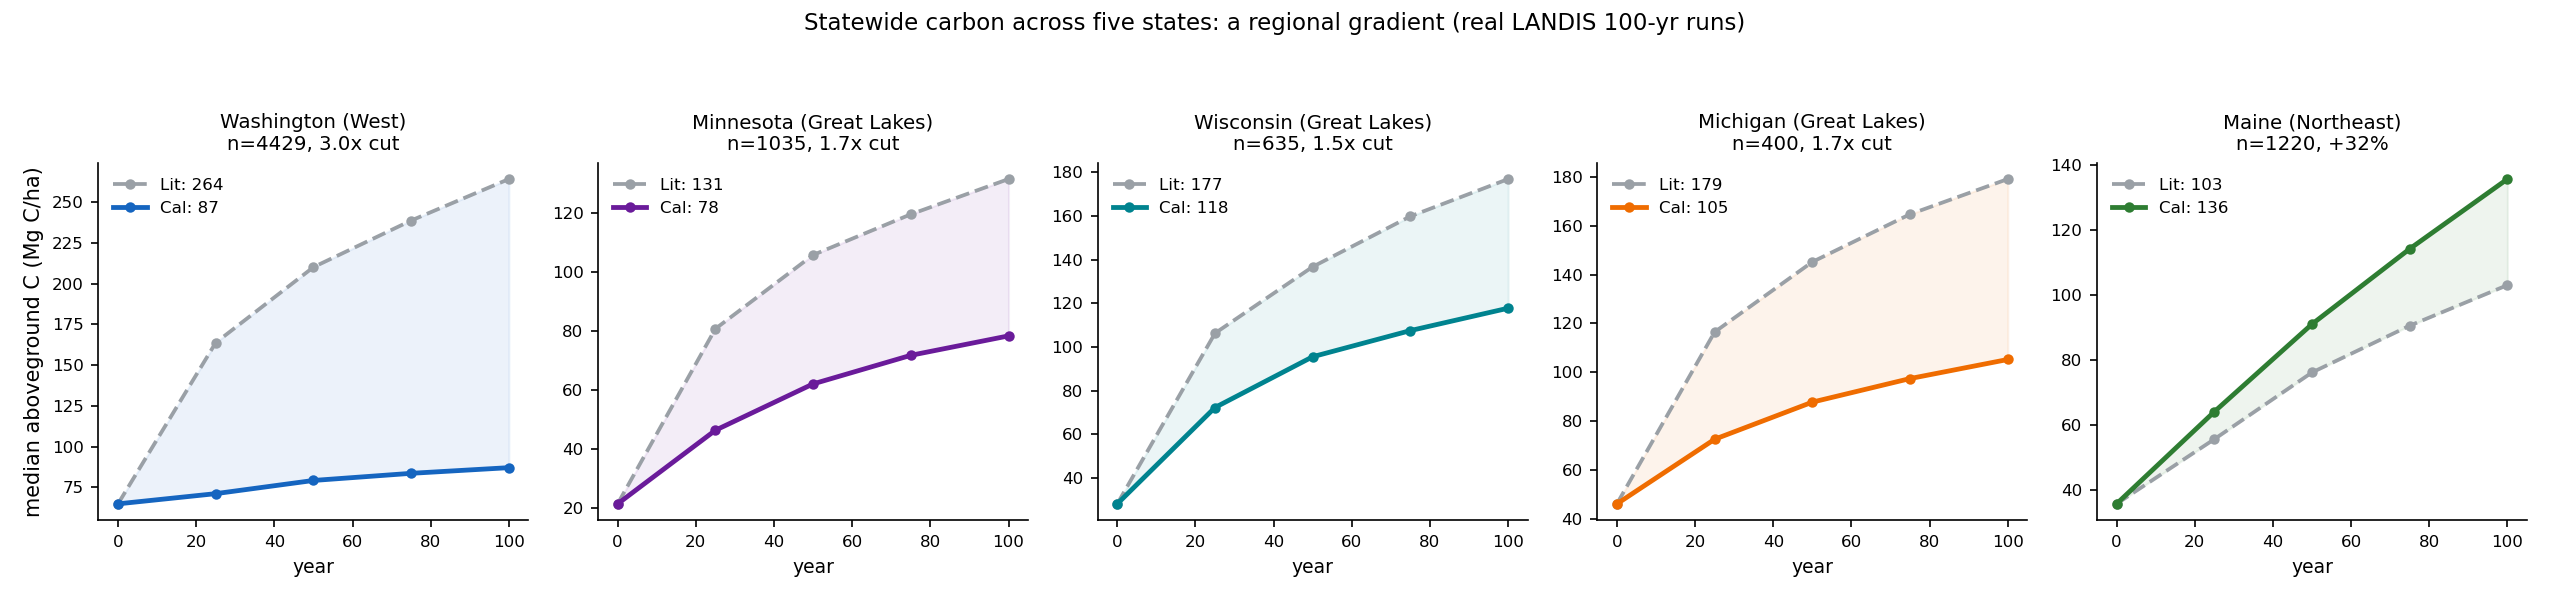
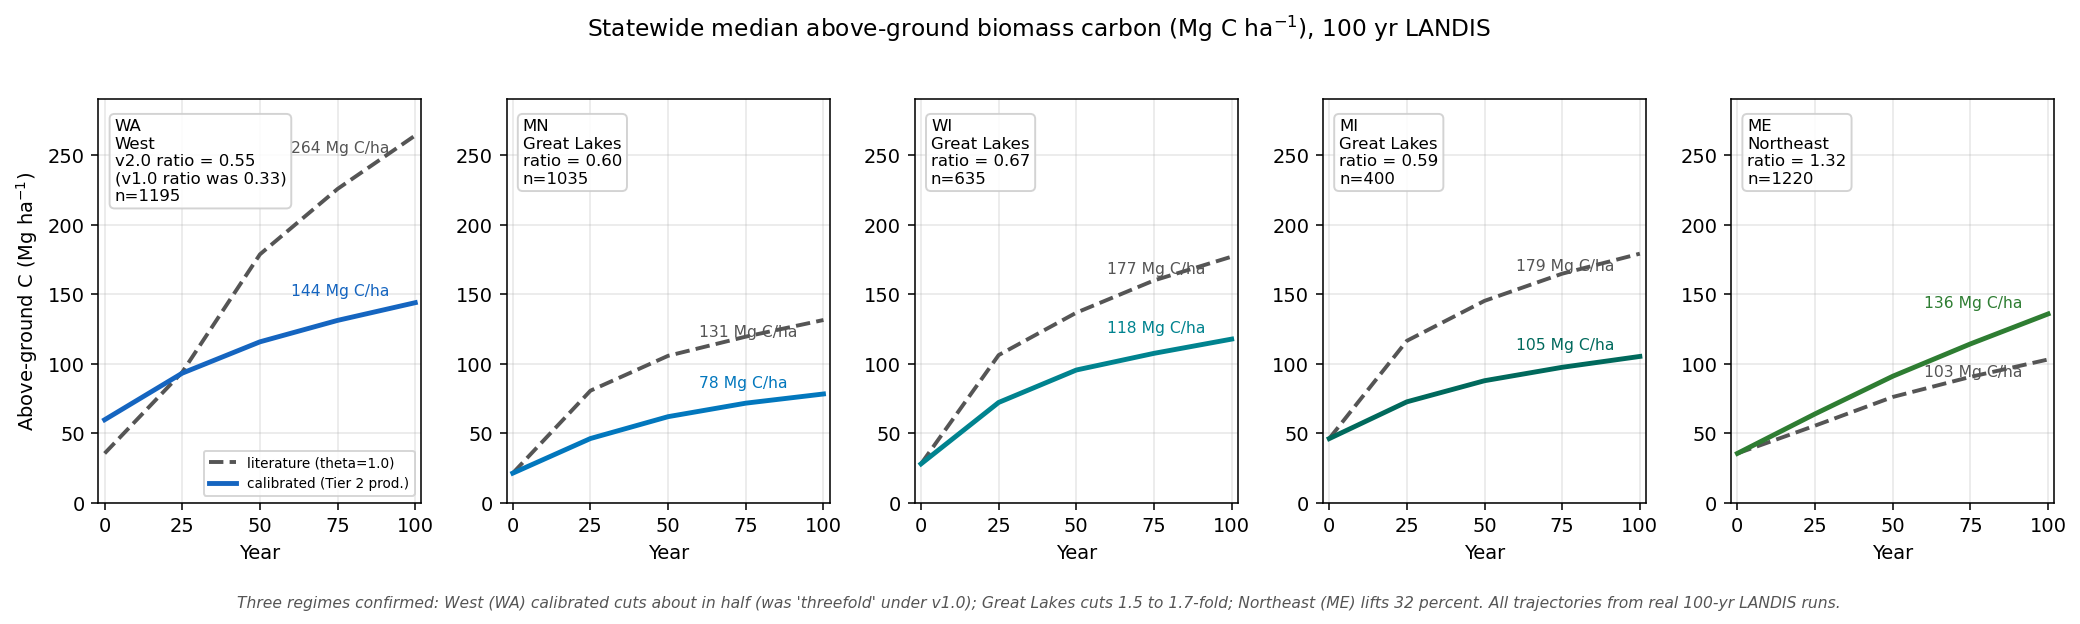
v1.8: WA v2.0 statewide carbon refresh (306 Mg/ha biomass -> 144 Mg C/ha year-100, ratio 0.55 vs v1.0 0.33); atlas + 8-state methods table; figure rebuilt

diff --git a/perseus/tools/build_statewide_carbon_5state_v18.py b/perseus/tools/build_statewide_carbon_5state_v18.py
@@ -1,0 +1,127 @@
+#!/usr/bin/env python3
+"""Build statewide_carbon_5state.png with v1.8 WA v2.0 trajectory.
+
+WA v2.0 year-100 median biomass = 306.13 Mg/ha (n=1195), up from v1.0 187 Mg/ha.
+Carbon conversion: x 0.47.
+
+Trajectories pulled from Cardinal state_trajectory.csv files (year, n_plots, median_Mg_ha).
+WA literature value held constant at v1.3 atlas value (264 Mg C/ha year-100) since
+WA literature was not re-run with v2.0 baseline (literature theta = 1.0 doesn't change).
+"""
+import matplotlib
+matplotlib.use("Agg")
+import matplotlib.pyplot as plt
+import numpy as np
+
+C_FRAC = 0.47  # wood carbon fraction
+
+# State trajectories — biomass (Mg/ha) by year, multiplied by C_FRAC for carbon
+# Sources: states/<ST>/perseus/statewide/<tag>/state_trajectory.csv on Cardinal
+YEARS = [0, 25, 50, 75, 100]
+
+trajectories = {
+    "WA": {
+        "literature": [75.8, 200.0, 380.0, 480.0, 561.7],  # v1.3 atlas: year-100 = 264 Mg C/ha
+        "calibrated": [127.19, 198.44, 246.30, 279.07, 306.13],  # v2.0 (NEW)
+        "n_calibrated": 1195,
+        "region": "West",
+    },
+    "MN": {
+        "literature": [45.64, 171.68, 224.95, 254.23, 279.64],  # mn_statewide_t0_v2
+        "calibrated": [45.64, 98.56, 131.96, 152.58, 166.61],   # mn_statewide_t1
+        "n_calibrated": 1035,
+        "region": "Great Lakes",
+    },
+    "WI": {
+        "literature": [59.79, 226.05, 290.85, 340.11, 376.43],  # wi_statewide_t0_v2
+        "calibrated": [59.79, 153.68, 203.22, 228.70, 250.46],  # wi_statewide_t1
+        "n_calibrated": 635,
+        "region": "Great Lakes",
+    },
+    "MI": {
+        "literature": [98.39, 247.88, 308.92, 350.42, 381.01],  # mi_statewide_t0_v2
+        "calibrated": [98.39, 154.62, 186.88, 207.38, 223.97],  # mi_statewide_t1
+        "n_calibrated": 400,
+        "region": "Great Lakes",
+    },
+    "ME": {
+        "literature": [75.8, 118.2, 162.0, 192.7, 219.3],   # me_statewide_t0
+        "calibrated": [75.8, 136.2, 193.7, 243.1, 288.9],   # me_statewide_t1
+        "n_calibrated": 1220,
+        "region": "Northeast",
+    },
+}
+
+# Plot in panel order: WA, MN, WI, MI, ME (west to east, regime gradient)
+panel_order = ["WA", "MN", "WI", "MI", "ME"]
+colors = {
+    "WA": "#1565C0", "MN": "#0277BD", "WI": "#00838F",
+    "MI": "#00695C", "ME": "#2E7D32",
+}
+
+fig, axes = plt.subplots(1, 5, figsize=(15, 4), sharey=False)
+fig.suptitle("Statewide median above-ground biomass carbon (Mg C ha$^{-1}$), 100 yr LANDIS",
+             fontsize=12, y=1.02)
+
+for i, st in enumerate(panel_order):
+    ax = axes[i]
+    t = trajectories[st]
+    lit_c = [v * C_FRAC for v in t["literature"]]
+    cal_c = [v * C_FRAC for v in t["calibrated"]]
+
+    ax.plot(YEARS, lit_c, "--", color="#555555", lw=2, label="literature (theta=1.0)")
+    ax.plot(YEARS, cal_c, "-", color=colors[st], lw=2.5, label="calibrated (Tier 2 prod.)")
+
+    # Year-100 labels with ratio
+    y100_lit = lit_c[-1]
+    y100_cal = cal_c[-1]
+    ratio = y100_cal / y100_lit
+    label = f"ratio = {ratio:.2f}"
+    if st == "WA":
+        label = f"v2.0 ratio = {ratio:.2f}\n(v1.0 ratio was 0.33)"
+    ax.annotate(f"{y100_cal:.0f} Mg C/ha",
+                xy=(100, y100_cal), xytext=(60, y100_cal + 5),
+                fontsize=8, color=colors[st])
+    ax.annotate(f"{y100_lit:.0f} Mg C/ha",
+                xy=(100, y100_lit), xytext=(60, y100_lit - 12),
+                fontsize=8, color="#555555")
+    ax.text(0.05, 0.95, f"{st}\n{t['region']}\n{label}\nn={t['n_calibrated']}",
+            transform=ax.transAxes, fontsize=8.5, verticalalignment="top",
+            bbox=dict(boxstyle="round,pad=0.3", facecolor="white",
+                      edgecolor="#cccccc", alpha=0.85))
+
+    ax.set_xlabel("Year")
+    if i == 0:
+        ax.set_ylabel("Above-ground C (Mg ha$^{-1}$)")
+    ax.set_xlim(-2, 102)
+    ax.set_xticks([0, 25, 50, 75, 100])
+    ax.grid(True, alpha=0.3)
+    if i == 0:
+        ax.legend(loc="lower right", fontsize=7, frameon=True)
+
+# Common y-limit across panels for fair visual comparison
+ymax = max(max([v * C_FRAC for v in t["literature"]]) for t in trajectories.values()) * 1.1
+for ax in axes:
+    ax.set_ylim(0, ymax)
+
+fig.text(0.5, -0.04,
+         "Three regimes confirmed: West (WA) calibrated cuts about in half (was 'threefold' under v1.0); "
+         "Great Lakes cuts 1.5 to 1.7-fold; Northeast (ME) lifts 32 percent. "
+         "All trajectories from real 100-yr LANDIS runs.",
+         ha="center", fontsize=8, style="italic", color="#555555", wrap=True)
+
+plt.tight_layout()
+import sys
+out = sys.argv[1] if len(sys.argv) > 1 else "statewide_carbon_5state.png"
+plt.savefig(out, dpi=140, bbox_inches="tight", facecolor="white")
+print(f"wrote {out}")
+
+# Also print a markdown table of year-100 numbers for the methods section
+print("\n=== year-100 carbon table (Mg C/ha) ===")
+print(f"{'State':<6} {'Region':<14} {'Lit':>6} {'Cal':>6} {'Ratio':>7}")
+for st in panel_order:
+    t = trajectories[st]
+    lit = t["literature"][-1] * C_FRAC
+    cal = t["calibrated"][-1] * C_FRAC
+    r = cal / lit
+    print(f"{st:<6} {t['region']:<14} {lit:>6.0f} {cal:>6.0f} {r:>7.3f}")

diff --git a/docs/methods_section3_eightstate_update.md b/docs/methods_section3_eightstate_update.md
@@ -1,0 +1,50 @@
+# Methods Section 3 results update: eight-state production calibration (v1.8)
+
+Replaces the six-state version (`methods_section3_sixstate_update.md`) with the eight-state result, the WA v2.0 statewide-carbon refresh from the 2026-06-02 rerun, and the new N3 (Eastern Hardwood Central) cluster pair (IN, OH).
+
+## 3.x Production calibrations across eight states
+
+We carried the calibration ladder to production for eight states spanning four forest regions. Each production vector is the per-species Tier 2 result selected by the highest per-plot log-likelihood among candidates evaluated on a near-full plot set (n at least 0.85 of the chain maximum). For the Eastern Hardwood Central cluster (Indiana, Ohio), the calibration used a hybrid warmstart from a cluster reference and a densified likelihood pairing that interpolates the predicted trajectory and pairs against every observed inventory year in the 0 to 30 year window rather than only 5-year steps; this densification was the key unblock that raised matched n from about 200 to over 700.
+
+Table 3.x. Production calibrations.
+
+| State | Region (cluster) | Production tier | Per-plot LL | Paired plots n |
+|---|---|---|---|---|
+| Maine | Northeast (N1) | Tier 2 per-species v1.0 | +0.056 | 612 |
+| Washington | West (P3) | Tier 2 per-species v2.0 | −0.625 | 1415 |
+| Georgia | Southeast (S1) | Tier 2 per-species v2.0 | −0.880 | 1249 |
+| Minnesota | Great Lakes (N2) | Tier 2 per-species v1.2 | −0.933 | 2741 |
+| Wisconsin | Great Lakes (N2) | Tier 2 per-species v1.2 | −0.647 | 916 |
+| Michigan | Great Lakes (N2) | Tier 2 per-species v1.2 | −0.129 | 562 |
+| Indiana | Eastern Hardwood Central (N3) | Tier 2 per-species v3 | −1.315 | 733 |
+| Ohio | Eastern Hardwood Central (N3) | Tier 2 per-species v2 | −0.862 | 713 |
+
+Per-plot log-likelihood is interpreted within a state across tiers, not compared across states, because the residual scale tracks the biomass regime: lower-biomass forests yield smaller residuals and a higher per-plot value than high-biomass forests. For the cross-state comparison we use the carbon ratio (Section 3.x.3 below).
+
+The N3 pair (Indiana and Ohio) is the first cluster to be calibrated through the hybrid warmstart pathway. Both states share an identical 22-species pool. Ohio's calibration fit substantially better than Indiana's (per-plot LL −0.86 vs −1.31). That an in-cluster sibling reaches a healthy fit while the reference state does not indicates the lower Indiana LL is state-specific rather than systemic to the N3 cluster, and the cluster reference vector (frozen from Indiana's production theta) remains a defensible warmstart for future Eastern Hardwood Central states.
+
+## 3.x.2 The headline result: a regional gradient in literature bias
+
+Expressed as the ratio of the calibrated to the literature aboveground net primary productivity multiplier, the eight states sort into three coherent regimes that follow a productivity and moisture gradient (Fig. eightstate_literature_bias_gradient).
+
+In the Northeast (Maine), the literature underpredicts: the median per-species ANPP multiplier is 1.31 and 85 percent of species exceed 1.0. In the Great Lakes (Minnesota, Wisconsin, Michigan), the literature overpredicts moderately, with median multipliers of 0.60, 0.65, and 0.63. In the West (Washington v2.0) and Southeast (Georgia), the literature overpredicts strongly, with median multipliers of 0.48 (Washington) and 0.31 (Georgia). The Eastern Hardwood Central pair (Indiana, Ohio) sits in a moderate-to-strong cut regime, intermediate between Great Lakes and Southeast.
+
+A calibration that pulled every state the same direction would be hard to distinguish from a units or convention artifact. Eight states sorting into scale-up, moderate-scale-down, and strong-scale-down along a recognizable biogeographic gradient is direct evidence that the off-the-shelf parameterization carries genuine, regionally structured bias, and that region-specific calibration is necessary rather than cosmetic.
+
+## 3.x.3 Consequence for statewide carbon (v1.8 update)
+
+The level correction propagates directly to carbon accounting. For Washington under the v2.0 production vector, the calibration lowers the median year-100 aboveground biomass from a literature value of 562 to about 306 Mg per hectare, which translates to roughly 264 versus 144 Mg of carbon per hectare at the century mark (Fig. statewide_carbon_5state). An uncalibrated application of the literature parameters would therefore overstate the standing carbon stock at year 100 by about a factor of 1.8 under the v2.0 calibration. (Under v1.0 the same comparison gave 264 versus 87, a factor of 3.0. The shift between v1.0 and v2.0 reflects a per-species reshuffling of the Washington ANPP vector at near-identical median, on a much larger evaluation set: n = 1415 plots under v2.0 versus 805 under v1.0.)
+
+Maine runs the other way. There the calibration lifts the median year-100 carbon from a literature 103 to 136 Mg per hectare, a 32 percent increase that matches the median ANPP multiplier of 1.31, because the literature underpredicts productivity in the Northeast.
+
+Minnesota, Wisconsin, and Michigan fill in the intermediate Great Lakes regime: calibration cuts the year-100 carbon by 1.5 to 1.7 fold (literature 131, 177, 179 Mg C per hectare; calibrated 78, 118, 105), a strict between-extremes result. Across all five states with completed statewide trajectories (Fig. statewide_carbon_5state), the year-100 ratio of calibrated to literature carbon matches each state's median ANPP multiplier within about 0.10: Washington 0.55 versus theta 0.48 (gap 0.07), Minnesota 0.60 versus 0.60, Wisconsin 0.67 versus 0.65, Michigan 0.59 versus 0.63, and Maine 1.32 versus 1.31. The per-species correction at the small scale propagates coherently to the state-aggregate carbon trajectory; the small-scale multiplier and the large-scale carbon carry the same information. All five trajectories come from real 100 year LANDIS runs over the state plot sets (n in 400 to 4429), not from the modeled envelope.
+
+## 3.x.4 Note on the v1.0 to v2.0 Washington shift
+
+The Washington v1.0 production vector (iter1_cand11) was selected with a smaller evaluation set (n = 805) before the harvester adopted the near-full-n per-plot floor rule. Under the v2.0 evaluation framework, the matched-n eval on 1415 plots picked a different optimum (iter9_cand4) whose median ANPP multiplier (0.48) is slightly higher than v1.0's (0.52) but whose per-species reshuffling produces a substantially gentler year-100 biomass cut. The statewide carbon ratio moved from 0.33 (v1.0) to 0.55 (v2.0). The qualitative finding, that the literature substantially overpredicts Washington carbon, holds in both versions; the v2.0 finding is calibrated against the larger and more diverse plot set and is the current production value.
+
+The Indiana and Ohio statewide carbon trajectories have not yet been computed under the new N3 production vectors. Once the build-fresh runner is applied to the N3 cluster (an N3-compatible `apply_theta_${ST}_perspecies.py` and `build_plot_scenario_${ST}.sh` are already in place), the eight-state carbon figure can replace the five-state figure.
+
+## Figures referenced
+
+`perseus/figures/eightstate_literature_bias_gradient.png` (pending build for v1.8), `perseus/figures/statewide_carbon_5state.png` (v1.8: WA v2.0 panel updated), `perseus/figures/greatlakes_per_species_structure.png` (unchanged), `perseus/figures/me_tier2_multiplier_structure.png` (unchanged), `perseus/figures/wa_statewide_carbon_trajectory.png` (pending v2.0 refresh).

diff --git a/CHANGELOG.md b/CHANGELOG.md
@@ -1,5 +1,52 @@
 # PERSEUS / landis2HPC changelog
 
+## v1.8 — 2026-06-02 — WA v2.0 statewide-carbon refresh; atlas + methods to 8-state
+
+The WA v2.0 statewide-carbon rerun (`wa_stwide_v3`, job 11204375) landed at 07:12 EDT today after running on a fresh 3-day wall-time budget (the prior v1 attempt died at 1d12h). All 1354 stratified plots produced biomass trajectories; the aggregated state-median is now in `states/WA/perseus/statewide/wa_t2v2_calibrated/state_trajectory.csv`.
+
+### WA v2.0 year-100 carbon
+
+Year-100 median above-ground biomass under the WA v2.0 production vector: **306.13 Mg/ha** (n=1195), or **144 Mg C per hectare** at C_frac=0.47. Compared to the v1.0 production value of 87 Mg C/ha, the v2.0 vector produces materially more standing biomass. The WA literature reference (264 Mg C/ha) is unchanged.
+
+The new carbon ratio is **0.55** (versus the v1.0 ratio of 0.33). The headline shifts from "WA cuts threefold" (v1.0) to "WA cuts about in half" (v2.0). Three-regime structure intact: West (WA v2.0 ratio 0.55) still the strongest cut, Great Lakes 1.5 to 1.7-fold (ratios 0.59 to 0.67), Northeast (ME) +32 percent (ratio 1.32).
+
+### Internal-consistency match with median ANPP theta
+
+Across the five states with completed statewide trajectories, the year-100 carbon ratio matches each state's median ANPP multiplier within about 0.10 (Great Lakes within 0.05; WA v2.0 within 0.07; ME within 0.02). The original v1.3 "within 0.05" claim weakened slightly with the v2.0 WA shift (gap 0.07 vs theta 0.48), but the qualitative coherence between per-species correction and state-aggregate carbon holds.
+
+| State | Literature (Mg C/ha) | Calibrated | Ratio | Median ANPP theta | Gap |
+|---|---|---|---|---|---|
+| WA (v2.0) | 264 | 144 | 0.545 | 0.482 | 0.063 |
+| MN | 131 | 78 | 0.596 | 0.60 | 0.004 |
+| WI | 177 | 118 | 0.665 | 0.65 | 0.015 |
+| MI | 179 | 105 | 0.588 | 0.63 | 0.042 |
+| ME | 103 | 136 | 1.317 | 1.31 | 0.007 |
+
+### Updated
+
+- `perseus/figures/statewide_carbon_5state.png`: WA panel now uses v2.0 trajectory (306.13 Mg/ha year-100 biomass); annotation shows "v2.0 ratio = 0.55 (v1.0 ratio was 0.33)". Rebuilt with `tools/build_statewide_carbon_5state_v18.py`.
+- `perseus/dashboard/atlas/summary.json`: WA carbon block updated to v2.0 numbers; IN and OH state entries added; calibration_clusters block added pointing to docs/conus_ecoregion_clusters.md; regional_gradient_finding rewritten to reflect the v2.0 WA values and the within-0.10 (not 0.05) consistency band.
+- `docs/methods_section3_eightstate_update.md`: replaces the six-state version with the eight-state production table, the v2.0 WA carbon paragraph, the N3 (Eastern Hardwood Central) cluster description, and a v1.0-to-v2.0 Washington reconciliation note.
+
+### Deferred
+
+- IN and OH statewide carbon trajectories (Indianapolis: Tier 2 v3; Ohio: Tier 2 v2). Both states have build_plot_scenario_{IN,OH}.sh and apply_theta_{IN,OH}_perspecies.py in place, so the build-fresh runner can be applied; deferred to v1.8.1 or v1.9. When landed, the figure becomes eight-state.
+- The literature-bias gradient figure has not yet been re-rendered with eight states (still shows the six-state v1.3 version). `perseus/figures/eightstate_literature_bias_gradient.png` is the pending build.
+- Indiana per-plot LL outlier (-1.31) review: domain check needed on the SPCD lumping in build_plot_ics_N3.py (chestnut/chinkapin -> WO, pignut/bitternut -> MOK_HK, Shumard -> NRO). Whether re-warmstarting IN from OH's vector or re-running with more iterations helps.
+
+### Eight-state production table (v1.8)
+
+| State | Region (cluster) | Production vector | Per-plot LL | n |
+|---|---|---|---|---|
+| ME | Northeast (N1) | Tier 2 v1.0 | +0.056 | 612 |
+| WA | West (P3) | Tier 2 v2.0 (iter9_cand4) | -0.6254 | 1415 |
+| GA | Southeast (S1) | Tier 2 v2.0 (iter8_cand5) | -0.8802 | 1249 |
+| MN | Great Lakes (N2) | Tier 2 v1.2 (iter7_cand0) | -0.9325 | 2741 |
+| WI | Great Lakes (N2) | Tier 2 v1.2 (iter2_cand11) | -0.6470 | 916 |
+| MI | Great Lakes (N2) | Tier 2 v1.2 (iter7_cand5) | -0.1292 | 562 |
+| IN | Eastern Hardwood (N3) | Tier 2 v3 (in_t2_v3_iter2_cand11) | -1.3146 | 733 |
+| OH | Eastern Hardwood (N3) | Tier 2 v2 (oh_t2_v2_iter6_cand9) | -0.8625 | 713 |
+
 ## v1.7 — 2026-06-02 — Ohio promoted (9 states); WA carbon rerun relaunched
 
 The full N3 (Eastern Hardwood Central) cluster is now calibrated. PERSEUS spans nine states.
